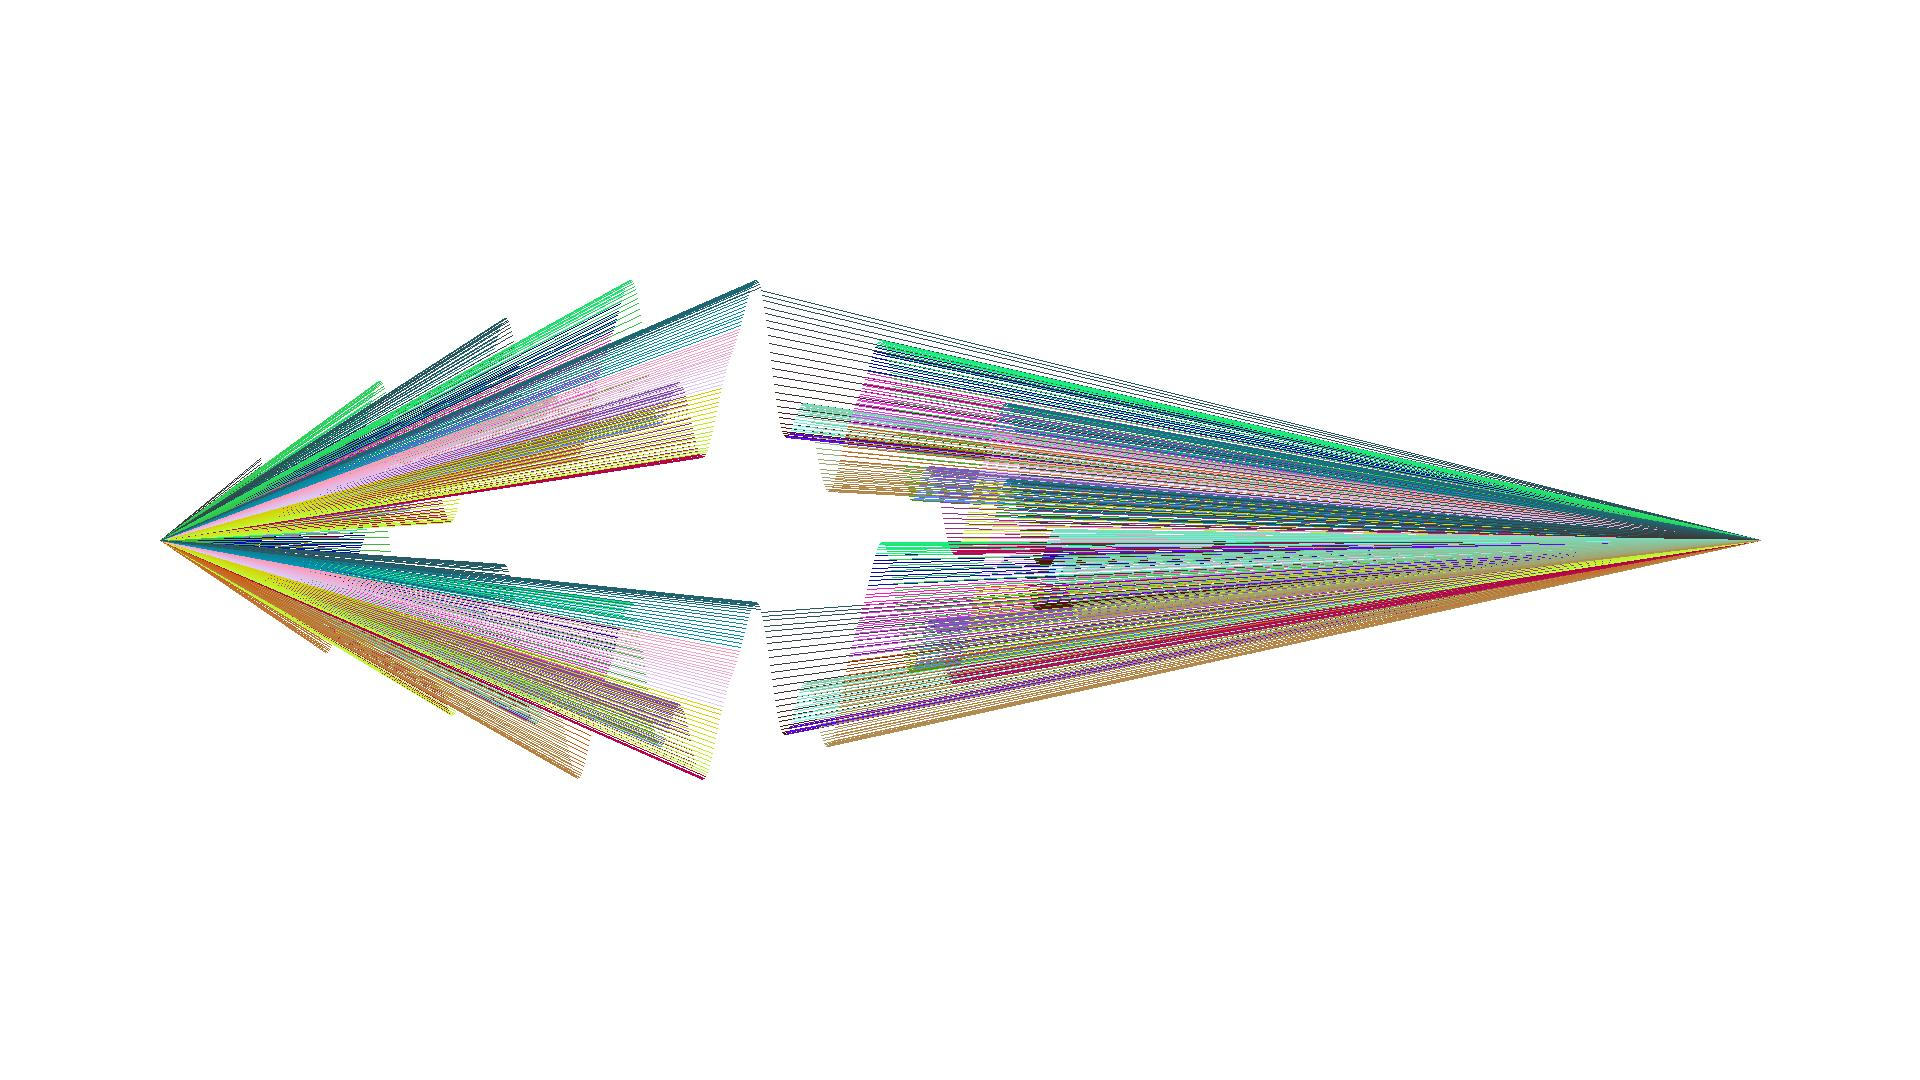
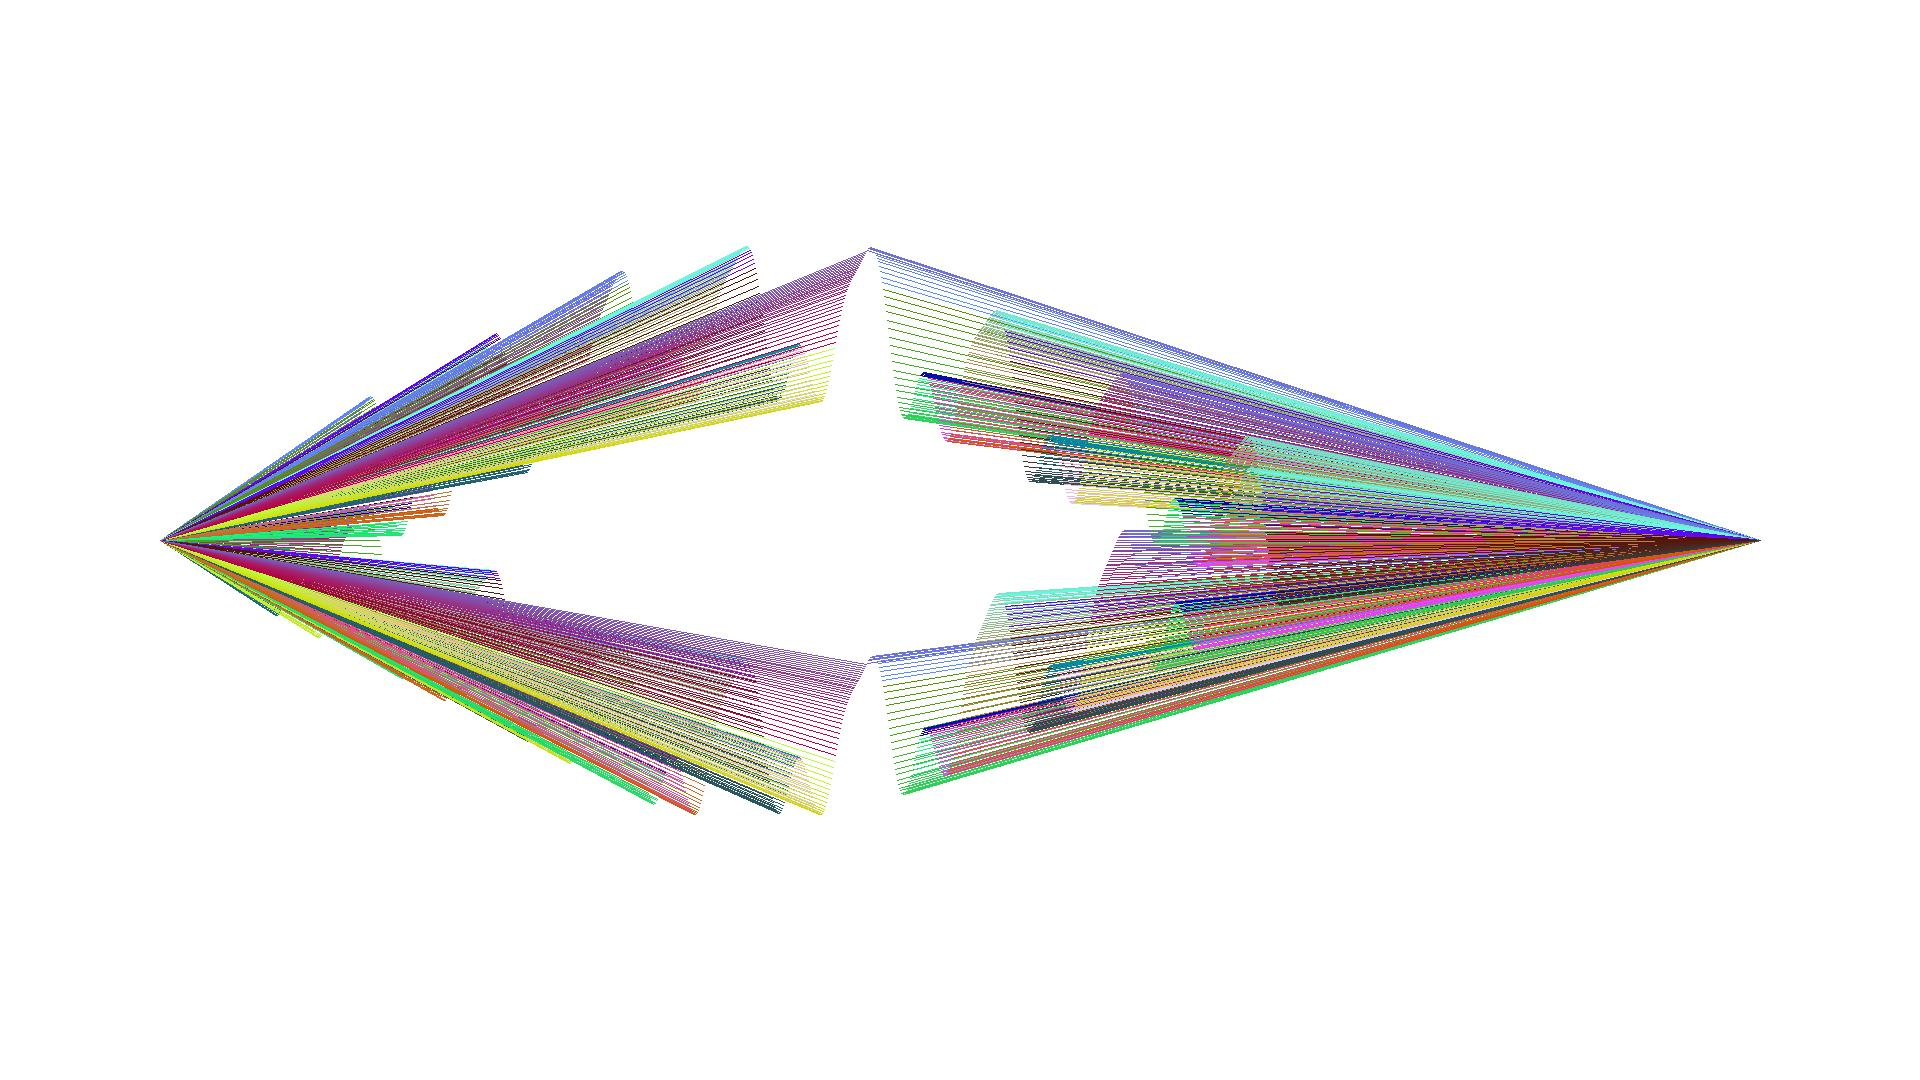
Minor corrections...

Changed region(s): [[0.0625, 0.2139, 0.9062, 0.7639]]

diff --git a/code/2022/gen_drawing_canvas.py b/code/2022/gen_drawing_canvas.py
@@ -19,9 +19,9 @@ class DCanvas():
 		self.draw.line([a,b], fill=c, width=w)
 
 	#Function to draw a circle...
-	def draw_circle(self, color, c, d):
-		a = (c[0] - d/2, c[1] - d/2)
-		b = (c[0] + d/2, c[1] + d/2)
+	def draw_circle(self, color, center, d):
+		a = (center[0] - d/2, center[1] - d/2)
+		b = (center[0] + d/2, center[1] + d/2)
 		self.draw.ellipse([a,b], fill=color, outline=None)
 
 	#Function to draw a rectangle...
@@ -30,11 +30,23 @@ class DCanvas():
 		b = (a[0] + size[0], a[1] + size[1])
 		self.draw.rectangle([a,b], fill=color, outline=None)
 
+	#Function to draw an empty rectangle...
+	def draw_empty_rectangle(self, border, width, center, size):
+		a = (center[0] - size[0]/2, center[1] - size[1] / 2)
+		b = (a[0] + size[0], a[1] + size[1])
+		self.draw.rounded_rectangle([a,b], fill=None, outline=border, width=width)
+
 	#Function to draw a rounded rectangle...
 	def draw_rounded_rectangle(self, color, center, size, r):
 		a = (center[0] - size[0]/2, center[1] - size[1] / 2)
 		b = (a[0] + size[0], a[1] + size[1])
 		self.draw.rounded_rectangle([a,b], radius=r, fill=color, outline=None)
+
+	#Function to draw an empty rounded rectangle...
+	def draw_empty_rounded_rectangle(self, border, width, center, size, r):
+		a = (center[0] - size[0]/2, center[1] - size[1] / 2)
+		b = (a[0] + size[0], a[1] + size[1])
+		self.draw.rounded_rectangle([a,b], radius=r, fill=None, outline=border, width=width)
 
 	#Function to write a message...
 	def write(self, x, y, cell, message, font, color):

diff --git a/code/2022/gen_color.py b/code/2022/gen_color.py
@@ -10,9 +10,9 @@ class GenColor():
 
 	#Moving a color randomly in rgb color space...
 	def move(self, motion):
-		r = (self.c[0] + rd.randint(-motion,motion))%255
-		g = (self.c[1] + rd.randint(-motion,motion))%255
-		b = (self.c[2] + rd.randint(-motion,motion))%255
+		r = (self.c[0] + rd.randint(-motion,motion))%256
+		g = (self.c[1] + rd.randint(-motion,motion))%256
+		b = (self.c[2] + rd.randint(-motion,motion))%256
 		self.c = (r,g,b)
 
 	#Moving a color in its direction...
@@ -25,16 +25,16 @@ class GenColor():
 
 	#Moving a color without stopping...
 	def overflow(self, motion):
-		r = (self.c[0] + motion * self.d[0])%255
-		g = (self.c[1] + motion * self.d[1])%255
-		b = (self.c[2] + motion * self.d[2])%255
+		r = (self.c[0] + motion * self.d[0])%256
+		g = (self.c[1] + motion * self.d[1])%256
+		b = (self.c[2] + motion * self.d[2])%256
 		self.c = (r,g,b)
 
 	#Moving a color without stopping independently...
 	def independent_overflow(self, motion):
-		r = (self.c[0] + motion[0] * self.d[0])%255
-		g = (self.c[1] + motion[1] * self.d[1])%255
-		b = (self.c[2] + motion[2] * self.d[2])%255
+		r = (self.c[0] + motion[0] * self.d[0])%256
+		g = (self.c[1] + motion[1] * self.d[1])%256
+		b = (self.c[2] + motion[2] * self.d[2])%256
 		self.c = (r,g,b)
 
 	#Getting close to another color...

diff --git a/code/2022/gen_4.py b/code/2022/gen_4.py
@@ -76,17 +76,16 @@ class Gen4():
 			for c in range(c_count):
 				self.colors[c] = ut.move_color(self.colors[c], 5)
 			t = 0
-			offset = rd.randint(1,200)+200
 			while t < 1000:
 				if self.is_point_in(p):
 					a = self.look_for_angle(p)
 					if not self.circles:
 						np = self.get_new_point(p, a, rd.randint(1,self.hw[0]//75))
-						self.canvas.draw_line(self.colors[(t//offset)%c_count], self.lw, (p[0]+self.margins[1],p[1]+self.margins[0]), (np[0]+self.margins[1],np[1]+self.margins[0]))
+						self.canvas.draw_line(self.colors[l%c_count], self.lw, (p[0]+self.margins[1],p[1]+self.margins[0]), (np[0]+self.margins[1],np[1]+self.margins[0]))
 					else:
 						s = math.sin(0.1 * t) * self.cd
 						np = self.get_new_point(p, a, s)
-						self.canvas.draw_circle(self.colors[(t//offset)%c_count], (np[0]+self.margins[1],np[1]+self.margins[0]), s)
+						self.canvas.draw_circle(self.colors[l%c_count], (np[0]+self.margins[1],np[1]+self.margins[0]), s)
 					p = np
 				t += 1
 

diff --git a/code/2022/gen_util.py b/code/2022/gen_util.py
@@ -28,7 +28,7 @@ class GenUtil():
 		r = rd.randint(-motion,motion)
 		g = rd.randint(-motion,motion)
 		b = rd.randint(-motion,motion)
-		return ((color[0]+r)%255,(color[1]+g)%255,(color[2]+b)%255)
+		return ((color[0]+r)%256,(color[1]+g)%256,(color[2]+b)%256)
 
 	#A function to invert a color in rgb color space...
 	def invert_color(self, color):
@@ -40,7 +40,7 @@ class GenUtil():
 		g = rd.randint(-motion,motion)
 		b = rd.randint(-motion,motion)
 		a = rd.randint(-motion,motion)
-		return ((color[0]+r)%255,(color[1]+g)%255,(color[2]+b)%255,(color[3]+a)%255)
+		return ((color[0]+r)%256,(color[1]+g)%256,(color[2]+b)%256,(color[3]+a)%256)
 
 	#A function to invert a color in rgba color space...
 	def invert_alpha_color(self, color):

diff --git a/code/2022/gen_3.py b/code/2022/gen_3.py
@@ -46,7 +46,8 @@ class Gen3():
 	def start_epidemic(self, virus_colors, contacts_width):
 		for v in range(len(virus_colors)):
 			t = rd.uniform(self.virus_thresholds[0],self.virus_thresholds[1])
-			m = rd.randint(2,5)
+		#	m = rd.randint(2,5)
+			m = 500
 			d = rd.randint(3,8)
 			c = rd.randint(0,contacts_width)
 			contacts = (c - contacts_width, c)
